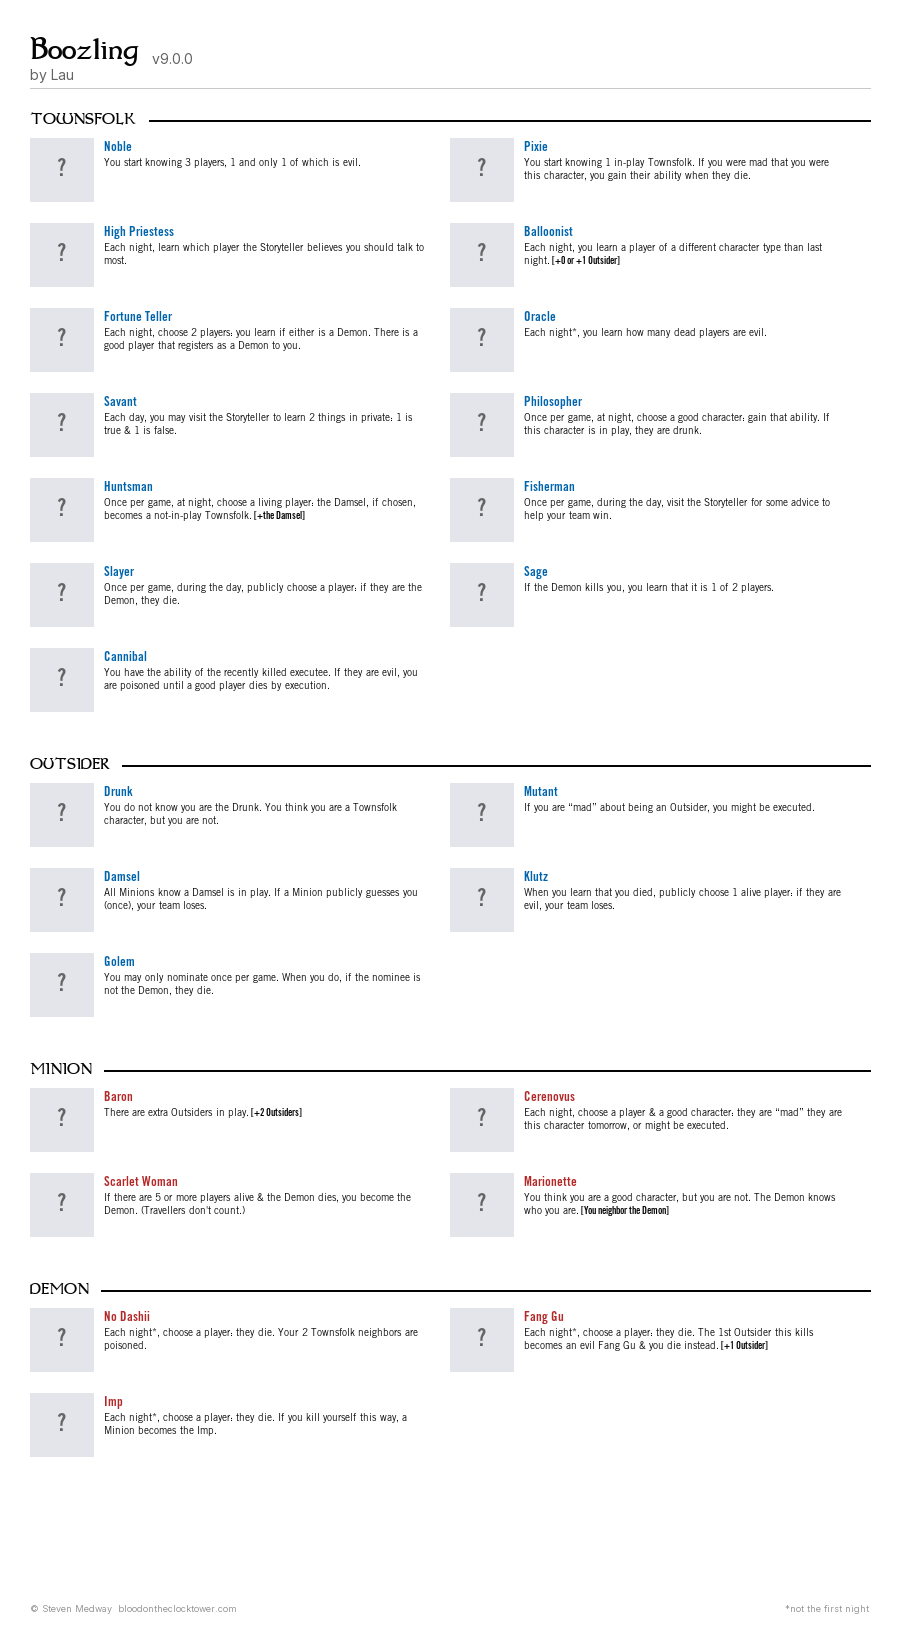
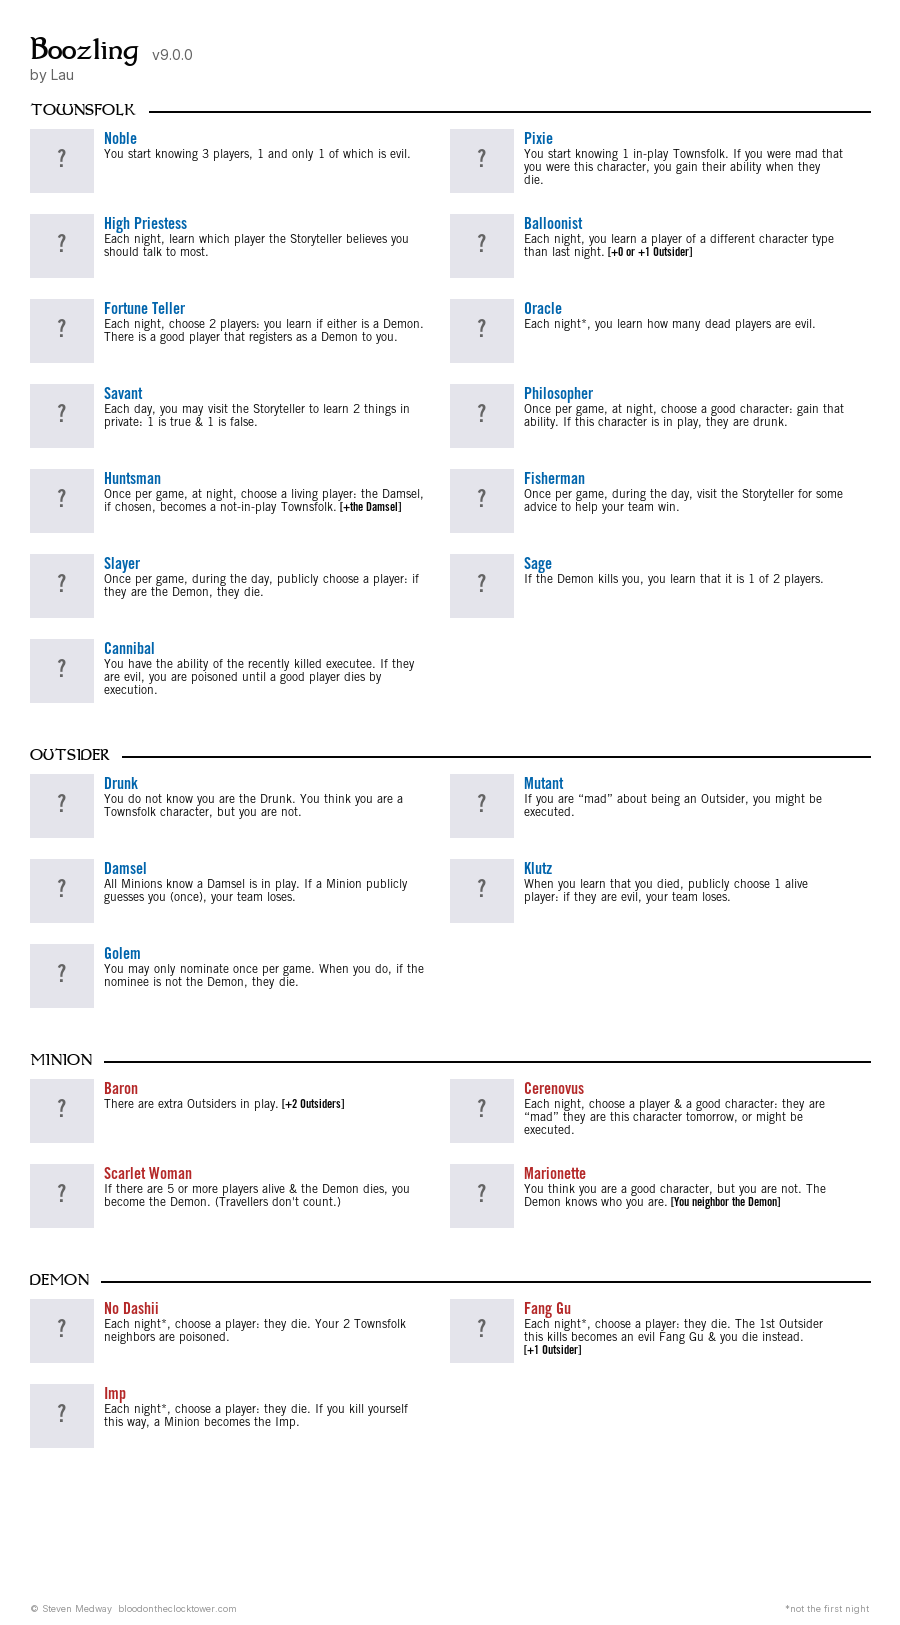
Token Size erhöht

diff --git a/logic/script_image.py b/logic/script_image.py
@@ -245,28 +245,27 @@ def _generate_sync(script_name: str, author: str, char_ids: list[str], version: 
     font_title = _get_font(_FONT_TITLE, 36)
     font_author = _get_font(_FONT_AUTHOR, 14)
     font_header = _get_font(_FONT_HEADER, 18)
-    font_name = _get_font(_FONT_CHAR_NAME, 13)
-    font_ability = _get_font(_FONT_CHAR_ABILITY, 10)
-    font_ability_bold = _get_font(_FONT_CHAR_NAME, 10)  # Bold-Variante für [brackets]
+    font_name = _get_font(_FONT_CHAR_NAME, 16)
+    font_ability = _get_font(_FONT_CHAR_ABILITY, 12)
+    font_ability_bold = _get_font(_FONT_CHAR_NAME, 12)  # Bold-Variante für [brackets]
     font_footer = _get_font(_FONT_AUTHOR, 9)
 
     y = PADDING
 
-    # ── Titel (links) + Version (rechts neben Titel, im Author-Stil) ─
+    # ── Titel (links) + Version (rechts neben Titel, am oberen Rand aligned) ─
     draw.text((PADDING, y), script_name, fill=TITLE_COLOR, font=font_title)
     if version:
         title_bbox = draw.textbbox((PADDING, y), script_name, font=font_title)
+        title_mid = (title_bbox[1] + title_bbox[3]) // 2
+        version_bbox = draw.textbbox((0, 0), f"v{version}", font=font_author)
+        version_h = version_bbox[3] - version_bbox[1]
         version_x = title_bbox[2] + 12
-        version_y = title_bbox[3] - 16  # Baseline-aligned mit Titel
+        version_y = title_mid - version_h // 2  # Vertikal zentriert am Titel
         draw.text((version_x, version_y), f"v{version}", fill=SUBTITLE_COLOR, font=font_author)
     y += 36
     if author:
         draw.text((PADDING, y), f"by {author}", fill=SUBTITLE_COLOR, font=font_author)
-    y += 22
-
-    # Divider
-    draw.line([(PADDING, y), (img_width - PADDING, y)], fill=DIVIDER_COLOR, width=1)
-    y += SECTION_GAP
+    y += 28
 
     # ── Kategorien ───────────────────────────────────────────────────
     for team in TEAM_ORDER:

diff --git a/logic/llm_config.py b/logic/llm_config.py
@@ -1,7 +1,7 @@
 """LLM-Konfiguration für die Event-Erstellung via Claude Haiku 4.5."""
 
 MODEL = "claude-haiku-4-5-20251001"
-MAX_TOKENS = 1024
+MAX_TOKENS = 2048
 
 # Pricing (USD per million tokens) — Haiku 4.5
 PRICE_INPUT_PER_MTOK = 0.80
